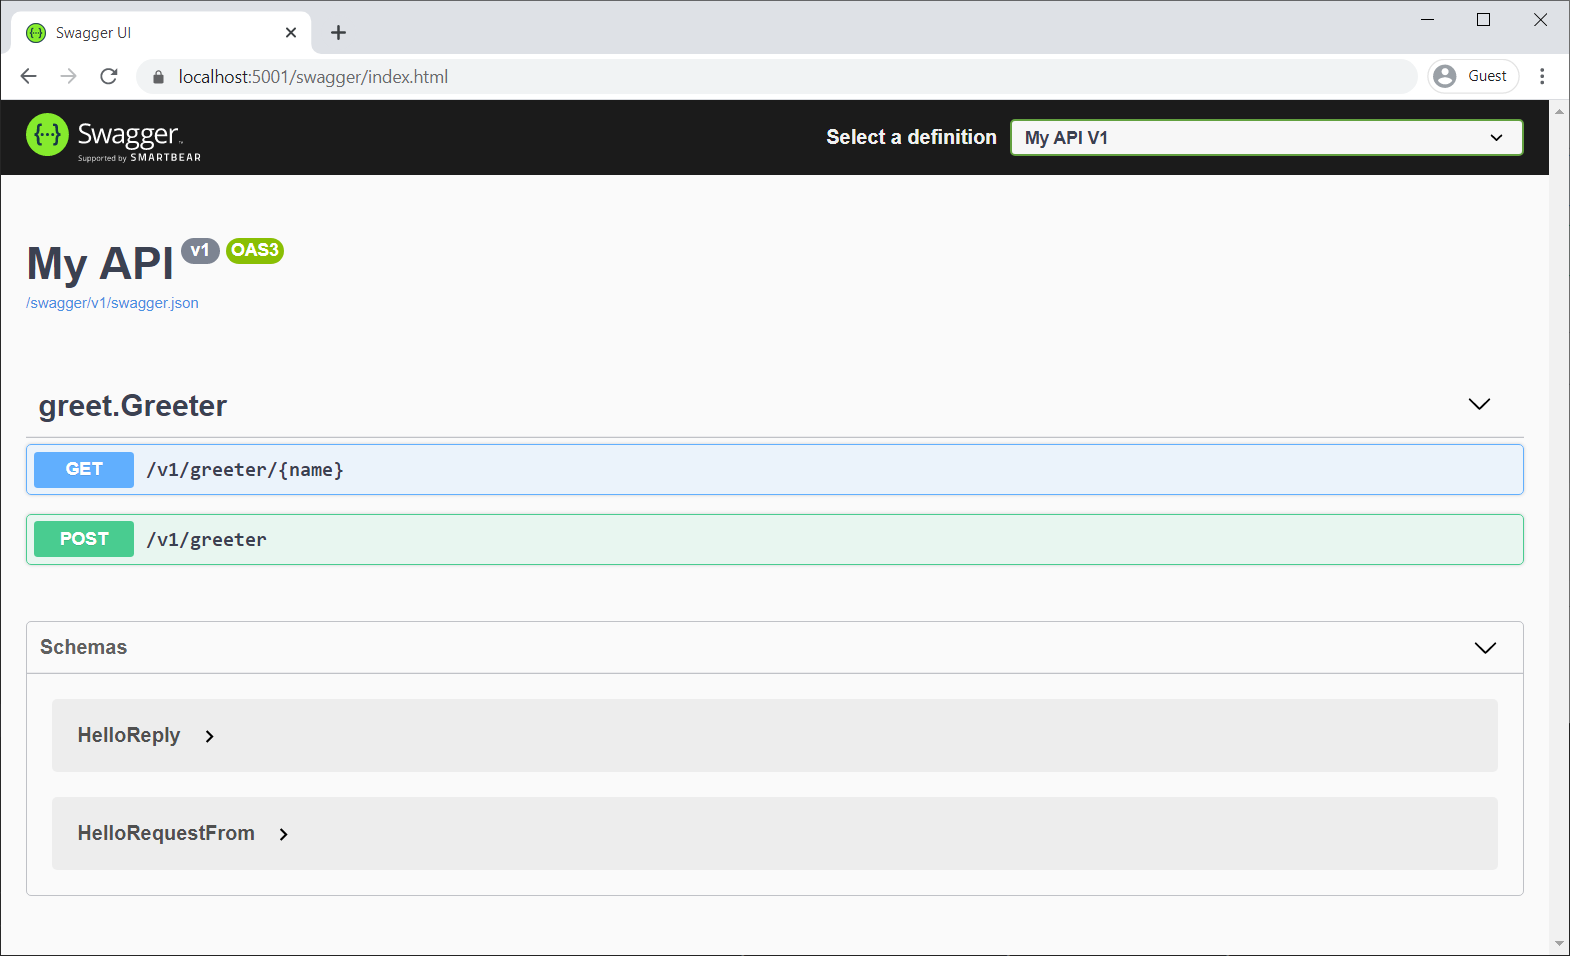
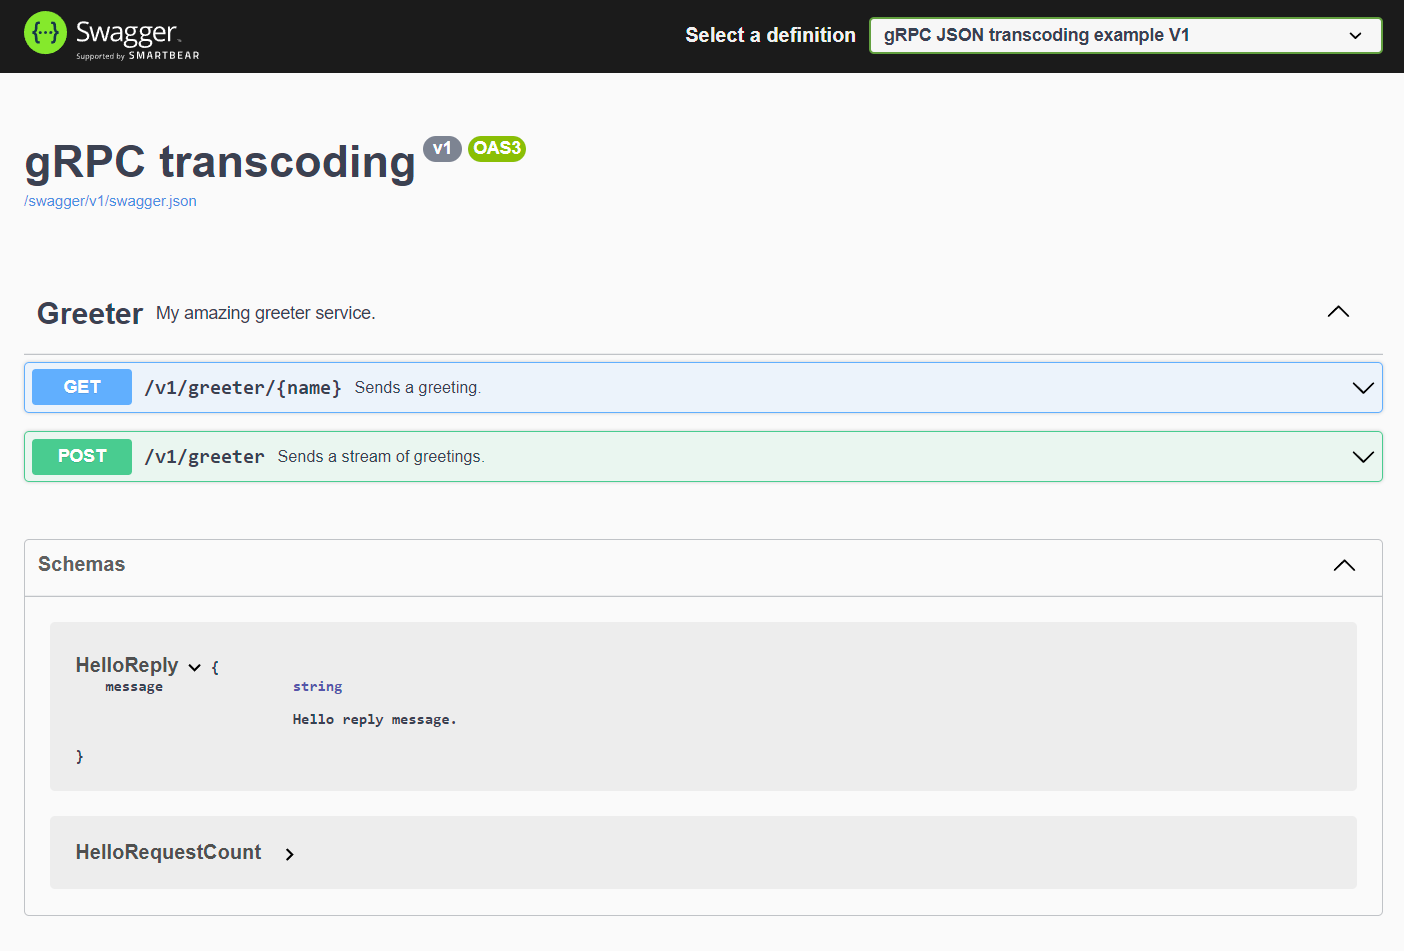
Add OpenAPI instructions to gRPC JSON transcoding

diff --git a/aspnetcore/grpc/httpapi/Program.cs b/aspnetcore/grpc/httpapi/Program.cs
@@ -1,0 +1,20 @@
+#region snippet_1
+var builder = WebApplication.CreateBuilder(args);
+builder.Services.AddGrpc().AddJsonTranscoding();
+builder.Services.AddGrpcSwagger();
+builder.Services.AddSwaggerGen(c =>
+{
+    c.SwaggerDoc("v1",
+        new OpenApiInfo { Title = "gRPC transcoding", Version = "v1" });
+});
+
+var app = builder.Build();
+app.UseSwagger();
+app.UseSwaggerUI(c =>
+{
+    c.SwaggerEndpoint("/swagger/v1/swagger.json", "My API V1");
+});
+app.MapGrpcService<GreeterService>();
+
+app.Run();
+#endregion

diff --git a/aspnetcore/grpc/httpapi.md b/aspnetcore/grpc/httpapi.md
@@ -30,7 +30,7 @@ gRPC can still be used to call services.
 > [!NOTE]
 > gRPC JSON transcoding replaces [gRPC HTTP API](https://github.com/aspnet/AspLabs/tree/main/src/GrpcHttpApi), an alternative experimental extension.
 
-### Usage
+## Usage
 
 1. Add a package reference to [`Microsoft.AspNetCore.Grpc.JsonTranscoding`](https://www.nuget.org/packages/Microsoft.AspNetCore.Grpc.JsonTranscoding).
 1. Register transcoding in server startup code by adding `AddJsonTranscoding`. For example, `services.AddGrpc().AddJsonTranscoding()`.
@@ -61,7 +61,7 @@ info: Microsoft.AspNetCore.Hosting.Diagnostics[2]
 
 This is a basic example. See [HttpRule](https://cloud.google.com/service-infrastructure/docs/service-management/reference/rpc/google.api#google.api.HttpRule) for more customization options.
 
-### Streaming support
+## Streaming support
 
 Traditional gRPC over HTTP/2 supports streaming in all directions. Transcoding is limited to server streaming only. Client streaming and bidirectional streaming methods aren't supported.
 
@@ -91,11 +91,65 @@ The client receives three line-delimited JSON objects:
 
 Note that the `WriteIndented` JSON setting doesn't apply to server streaming methods. Pretty printing adds new lines and whitespace to JSON, which can't be used with line-delimited JSON.
 
-### OpenAPI support
+## Experimental OpenAPI support
 
-Transcoding currently doesn't support OpenAPI. During the development of .NET 7, the .NET team will investigate the best way to support OpenAPI.
+There is *experimental* support for generating OpenAPI from gRPC transcoded RESTful APIs. The NuGet package integrates with [Swashbuckle](xref:tutorials/get-started-with-swashbuckle) and is experimental in .NET 7 to give us time to explore the best way to provide OpenAPI support.
 
-### HTTP protocol
+To enable OpenAPI with gRPC JSON transcoding:
+
+1. Add a package reference to [Microsoft.AspNetCore.Grpc.Swagger](https://www.nuget.org/packages/Microsoft.AspNetCore.Grpc.Swagger). The version must be 0.3.0-xxx or greater.
+2. Configure Swashbuckle in startup. The `AddGrpcSwagger` method configures Swashbuckle to include gRPC endpoints.
+
+[!code-csharp[](~/grpc/httpapi/Program.cs?name=snippet_1&highlight=3-8,11-15)]
+
+### Include descriptions from `.proto` comments
+
+Comments from the `.proto` contract can be added to generated OpenAPI descriptions.
+
+```protobuf
+// My amazing greeter service.
+service Greeter {
+  // Sends a greeting.
+  rpc SayHello (HelloRequest) returns (HelloReply) {
+    option (google.api.http) = {
+      get: "/v1/greeter/{name}"
+    };
+  }
+}
+
+message HelloRequest {
+  // Name to say hello to.
+  string name = 1;
+}
+
+message HelloReply {
+  // Hello reply message.
+  string message = 1;
+}
+```
+
+To enable gRPC OpenAPI comments:
+
+1. Enable the XML documentation file in the server project with `<GenerateDocumentationFile>true</GenerateDocumentationFile>`.
+2. Configure `AddSwaggerGen` to read the generated XML file. Pass the XML file path to `IncludeXmlComments` and `IncludeGrpcXmlComments`.
+
+```csharp
+builder.Services.AddSwaggerGen(c =>
+{
+    c.SwaggerDoc("v1",
+        new OpenApiInfo { Title = "gRPC transcoding", Version = "v1" });
+
+    var filePath = Path.Combine(System.AppContext.BaseDirectory, "Server.xml");
+    c.IncludeXmlComments(filePath);
+    c.IncludeGrpcXmlComments(filePath, includeControllerXmlComments: true);
+});
+```
+
+To confirm that Swashbuckle is generating OpenAPI with comments for the RESTful gRPC services, start the app and navigate to the Swagger UI page:
+
+![Swagger UI](~/grpc/httpapi/static/swaggerui.png)
+
+## HTTP protocol
 
 The ASP.NET Core gRPC service template, included in the .NET SDK, creates an app that's only configured for HTTP/2. This is a good default when an app only supports traditional gRPC over HTTP/2. Transcoding, however, works with both HTTP/1.1 and HTTP/2. Some platforms, such as UWP or Unity, can't use HTTP/2. To support all client apps, configure the server to enable HTTP/1.1 and HTTP/2.
 
@@ -115,7 +169,7 @@ Alternatively, [configure Kestrel endpoints in startup code](xref:fundamentals/s
 
 Enabling HTTP/1.1 and HTTP/2 on the same port requires TLS for protocol negotiation. For more information about configuring HTTP protocols in a gRPC app, see [ASP.NET Core gRPC protocol negotiation](xref:grpc/aspnetcore#protocol-negotiation).
 
-### gRPC JSON transcoding vs gRPC-Web
+## gRPC JSON transcoding vs gRPC-Web
 
 Both transcoding and gRPC-Web allow gRPC services to be called from a browser. However, the way each does this is different:
 
